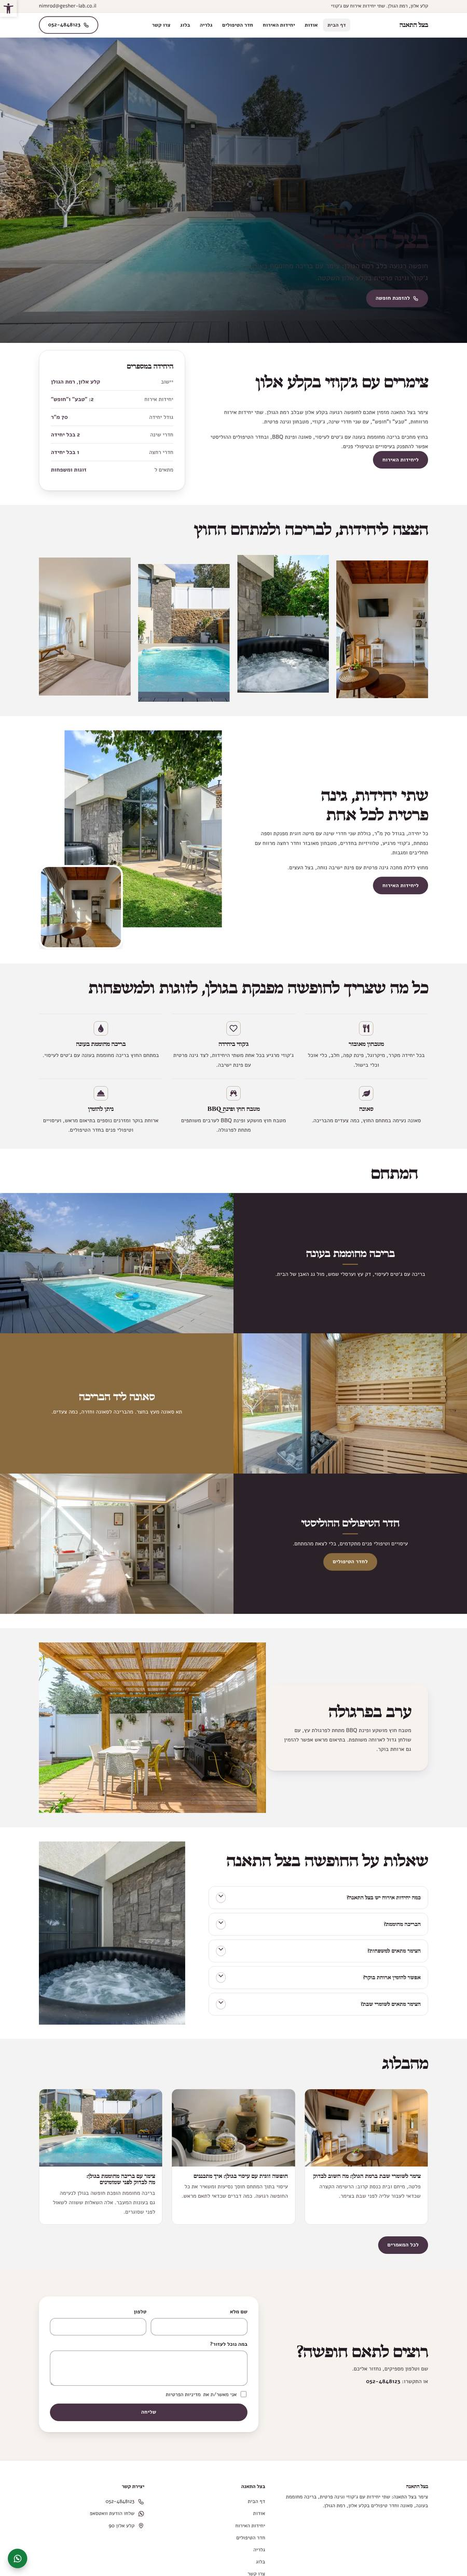
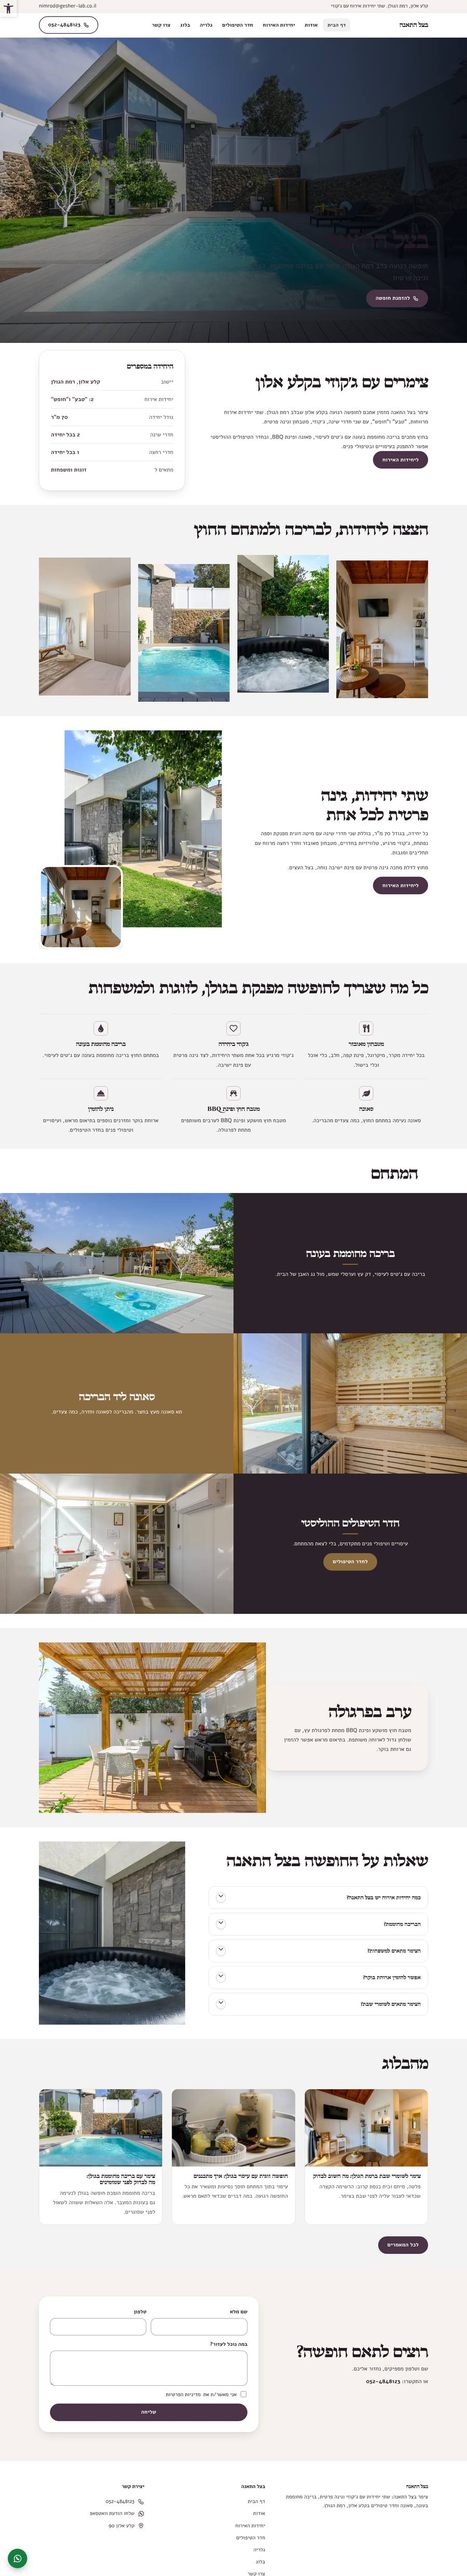
betzel-hateena: shorter hero lead, blog description, QA 0 / SEO 0 FAIL, previews
Claude-Session: https://claude.ai/code/session_01GFjDY7i3KpUg2KGwnZs5PT

Changed region(s): [[0.0622, 0.8076, 0.3422, 0.8386], [0.6533, 0.8076, 0.9022, 0.8386], [0.3733, 0.8076, 0.6222, 0.8386]]

diff --git a/sites/betzel-hateena/build_sitejson.py b/sites/betzel-hateena/build_sitejson.py
@@ -93,7 +93,7 @@ home = {
     },
     "sections": [
         {"type": "hero", "title": "בצל התאנה",
-         "lead": "חופשה רגועה בלב רמת הגולן: צימר עם בריכה מחוממת בעונה, ג׳קוזי וגינה פרטית בקלע אלון השקטה.",
+         "lead": "חופשה רגועה בלב רמת הגולן: צימר עם בריכה מחוממת, ג׳קוזי וגינה פרטית.",
          "cta": {"label": "להזמנת חופשה", "href": "tel"}, "cta2": {"label": "וואטסאפ", "href": "whatsapp"},
          "image": "pool-gable"},
         {"type": "facts", "title": "צימרים עם ג׳קוזי בקלע אלון",
@@ -253,7 +253,7 @@ contact = {
 blog = {"key": "בלוג", "type": "blog", "title": "בלוג",
         "excerpt": "רעיונות לחופשה ברמת הגולן מצימר בצל התאנה בקלע אלון.",
         "seo": {"title": "בצל התאנה | בלוג",
-                "description": "הבלוג של צימר בצל התאנה בקלע אלון: איך בוחרים צימר עם בריכה מחוממת בגולן, איך משלבים עיסוי בחופשה זוגית ומה חשוב לשומרי שבת בצימר. רעיונות לחופשה",
+                "description": "הבלוג של צימר בצל התאנה בקלע אלון: איך בוחרים צימר עם בריכה מחוממת בגולן, איך משלבים עיסוי בחופשה זוגית ומה חשוב לשומרי שבת בצימר. רעיונות לחופשה רגועה",
                 "keyword": "בלוג צימרים בגולן"}}
 
 POSTS = [

diff --git a/sites/betzel-hateena/SEO-QA.md b/sites/betzel-hateena/SEO-QA.md
@@ -1,0 +1,45 @@
+# SEO QA — בצל התאנה
+
+Checklist: Zap SEO sheet · site http://127.0.0.1:8546 · 39 rows: 33 pass, 0 fail, 5 manual
+
+| # | קטגוריה | בדיקה | סטטוס | הערות |
+|---|---|---|---|---|
+| 1 | עיצוב וטיפוגרפיה | מספר מקשר פותח פופ אפ | 👁 MANUAL | the engine has no tracking-number popup; check the example site14.clicksite.co.il and the Zap number in the brief |
+| 3 | עיצוב וטיפוגרפיה | שירותי החברה בדף הבית מפנים לעמוד השירות הנכון | — N/A | 0 cards checked |
+| 4 | עיצוב וטיפוגרפיה | יש עמודי הצהרת נגישות ומדיניות פרטיות | ✅ PASS | privacy ok; accessibility link /הצהרת-נגישות/ |
+| 5 | עיצוב וטיפוגרפיה | קטגוריית בלוג עם 3 פוסטים רלוונטיים (בסטלינקס) | ✅ PASS | blog page yes, 3 posts |
+| 6 | תמונות וביצועים | כל התמונות מתחת ל-100KB ובפורמט WebP | ✅ PASS | 54 images |
+| 7 | תמונות וביצועים | ALT לכל התמונות | ✅ PASS |  |
+| 8 | תמונות וביצועים | השאלות הנפוצות רלוונטיות לחברה | 👁 MANUAL | read every FAQ against NOTES.md facts (validate.py already blocks thin FAQs and invented ratings) |
+| 9 | תמונות וביצועים | הוכנסו תמונות הלקוח מטופס האפיון | 👁 MANUAL | 43 images, 0 marked AI; compare with the client's folder from the spec |
+| 11 | כפתורים ויצירת קשר | לינק וואטסאפ למספר הנכון + טאב חדש | ✅ PASS | 28 links |
+| 12 | כפתורים ויצירת קשר | כפתור וואטסאפ צף בכל האתר (טאב חדש) | ✅ PASS | desktop 1440 + mobile 390, every page |
+| 13 | כפתורים ויצירת קשר | כפתור טלפון תואם למספר באתר | ✅ PASS | tel = 052-4848123 |
+| 14 | כפתורים ויצירת קשר | כפתורי טלפון עם tel: לחיוג ישיר | ✅ PASS |  |
+| 15 | SEO טכני - URLs | סלאגים בעברית ולפי ה-H1 | ✅ PASS |  |
+| 16 | SEO טכני - URLs | הסרת /category/ מכתובות קטגוריות | ✅ PASS | category base removed |
+| 17 | SEO טכני - URLs | פרמלינק פוסטים /blog/%postname%/ | ✅ PASS | posts live under /בלוג/ |
+| 18 | SEO טכני - URLs | וי מדיניות פרטיות בטפסים + slug תקין | ✅ PASS | 13 forms |
+| 19 | שגיאות 301 ו-404 | בדיקת כל שגיאות ה-404 באתר | ✅ PASS | 17 internal links, all < 400 |
+| 20 | שגיאות 301 ו-404 | תיקון כל ה-404 (עמוד / 301) | ✅ PASS | redesign: map the old site's URLs to new ones (301) before launch |
+| 21 | שגיאות 301 ו-404 | קישורים פנימיים לא מפנים לכתובות ישנות | ✅ PASS |  |
+| 22 | SEO On-Page | סכמת FAQ בעמודי שירות ופוסטים | ✅ PASS |  |
+| 23 | SEO On-Page | Meta Title ייחודי ואופטימלי בכל עמוד | ✅ PASS | 13 unique titles |
+| 24 | SEO On-Page | Meta Description ייחודי (150-160 תווים) | ✅ PASS |  |
+| 25 | עמוד 404 | עיצוב מותאם לעמוד 404 | ✅ PASS | HTTP 404 |
+| 26 | עמוד 404 | קישור לעמוד הבית | ✅ PASS |  |
+| 27 | עמוד 404 | קישור לעמוד צור קשר | ✅ PASS |  |
+| 28 | עמוד 404 | שורת חיפוש בעמוד 404 | ✅ PASS |  |
+| 29 | עמוד 404 | קישורים פופולריים / קטגוריות | ✅ PASS |  |
+| 30 | תבניות | טמפלט תוצאות חיפוש עם רשימת פוסטים | ✅ PASS | HTTP 200 |
+| +1 | כללי | טלפון, מייל וכתובת תואמים לאפיון | 👁 MANUAL | site shows 052-4848123, nimrod@gesher-lab.co.il, קלע אלון 90; compare with the spec |
+| +2 | כללי | לוגו זאפ בפוטר + קישור לאתר זאפ | ✅ PASS |  |
+| +3 | כללי | H1 בדף הבית = שם הלקוח בלבד | ✅ PASS | בצל התאנה |
+| +7 | כללי | פורמט Title: "<לקוח> | <עמוד>" | ✅ PASS | all titles start with the client name |
+| +4 | כללי | עמוד פנימי שונה מפוסט | ✅ PASS | pages render through Elementor page layouts, posts through single.php |
+| +5 | כללי | מדיניות פרטיות + נגישות: טייטל ודיסקריפשן עם שם הלקוח | ✅ PASS | privacy title: בצל התאנה / מדיניות פרטיות; accessibility title: בצל התאנה / הצהרת נגישות |
+| +6 | כללי | נראות במובייל ובמחשב נייד 1280 | 👁 MANUAL | zs qa measures 1440 + 390 and the hero at 1280×620; look at 1280 once by eye |
+| +7 | כללי | שם הלקוח הנכון במדיניות הפרטיות ובהצהרת הנגישות | ✅ PASS | legal name: בצל התאנה |
+| +8 | כללי | מייל הטפסים ושם האתר מוגדרים נכון | ✅ PASS | leads → nimrod@gesher-lab.co.il; subject carries the site name; staging never mails the client |
+| +9 | כללי | סדר היררכי של כותרות, בלי H2 בטפסים | ✅ PASS |  |
+| +10 | כללי | כפתור נגישות (Ally) מוצג באתר | ✅ PASS | visible |

diff --git a/sites/betzel-hateena/QA-REPORT.md b/sites/betzel-hateena/QA-REPORT.md
@@ -2,39 +2,39 @@
 
 - Pages × viewports checked: **26** (13 URLs × 2)
 - Internal links tested: **56**, not 200: **0**
-- Errors: **27** · Warnings: **8**
+- Errors: **0** · Warnings: **8**
 
 - ✅ hero buttons above the fold at 1280×620
 - ✅ 404 page returns HTTP 404
 - ✅ mobile menu opens full-screen on top / Escape closes
 - ✅ lead form: thank-you shown, saved=1, mail=skipped on staging (correct)
-- ❌ hero buttons above the fold at 360×640 — 23px below
+- ✅ hero buttons above the fold at 360×640
 
 | viewport | page | errors | warnings | KB | details |
 |---|---|---|---|---|---|
-| desktop | /מדיניות-פרטיות/ | 1 | 0 | 829 | no favicon |
-| desktop | /יחידות-האירוח/ | 1 | 0 | 2343 | no favicon |
-| desktop | /חדר-הטיפולים/ | 1 | 0 | 1491 | no favicon |
-| desktop | /גלריה/ | 1 | 1 | 3524 | no favicon; <title> length 17 |
-| desktop | /צרו-קשר/ | 1 | 1 | 988 | no favicon; <title> length 19 |
-| desktop | /בלוג/ | 1 | 1 | 1196 | no favicon; <title> length 16 |
-| desktop | /הצהרת-נגישות/ | 1 | 0 | 814 | no favicon |
-| desktop | / | 1 | 0 | 2253 | no favicon |
-| desktop | /אודות/ | 1 | 1 | 1631 | no favicon; <title> length 17 |
-| desktop | /בלוג/צימר-לשומרי-שבת-ברמת-הגולן/ | 1 | 0 | 1075 | no favicon |
-| desktop | /בלוג/חופשה-זוגית-עם-עיסוי-בגולן/ | 1 | 0 | 1042 | no favicon |
-| desktop | /בלוג/צימר-עם-בריכה-מחוממת-בגולן/ | 1 | 0 | 1051 | no favicon |
-| desktop | /בלוג/חופשה-בגולן/ | 1 | 0 | 1469 | no favicon |
-| mobile | /מדיניות-פרטיות/ | 1 | 0 | 829 | no favicon |
-| mobile | /יחידות-האירוח/ | 1 | 0 | 2007 | no favicon |
-| mobile | /חדר-הטיפולים/ | 1 | 0 | 1303 | no favicon |
-| mobile | /גלריה/ | 1 | 1 | 2870 | no favicon; <title> length 17 |
-| mobile | /צרו-קשר/ | 1 | 1 | 1020 | no favicon; <title> length 19 |
-| mobile | /בלוג/ | 1 | 1 | 1114 | no favicon; <title> length 16 |
-| mobile | /הצהרת-נגישות/ | 1 | 0 | 814 | no favicon |
-| mobile | / | 1 | 0 | 1871 | no favicon |
-| mobile | /אודות/ | 1 | 1 | 1465 | no favicon; <title> length 17 |
-| mobile | /בלוג/צימר-לשומרי-שבת-ברמת-הגולן/ | 1 | 0 | 1010 | no favicon |
-| mobile | /בלוג/חופשה-זוגית-עם-עיסוי-בגולן/ | 1 | 0 | 998 | no favicon |
-| mobile | /בלוג/צימר-עם-בריכה-מחוממת-בגולן/ | 1 | 0 | 1049 | no favicon |
-| mobile | /בלוג/חופשה-בגולן/ | 1 | 0 | 1117 | no favicon |
+| desktop | /מדיניות-פרטיות/ | 0 | 0 | 830 |  |
+| desktop | /יחידות-האירוח/ | 0 | 0 | 1858 |  |
+| desktop | /חדר-הטיפולים/ | 0 | 0 | 1256 |  |
+| desktop | /גלריה/ | 0 | 1 | 2590 | <title> length 17 |
+| desktop | /צרו-קשר/ | 0 | 1 | 989 | <title> length 19 |
+| desktop | /בלוג/ | 0 | 1 | 1052 | <title> length 16 |
+| desktop | /הצהרת-נגישות/ | 0 | 0 | 814 |  |
+| desktop | / | 0 | 0 | 1793 |  |
+| desktop | /אודות/ | 0 | 1 | 1398 | <title> length 17 |
+| desktop | /בלוג/צימר-לשומרי-שבת-ברמת-הגולן/ | 0 | 0 | 1018 |  |
+| desktop | /בלוג/חופשה-זוגית-עם-עיסוי-בגולן/ | 0 | 0 | 1004 |  |
+| desktop | /בלוג/צימר-עם-בריכה-מחוממת-בגולן/ | 0 | 0 | 1052 |  |
+| desktop | /בלוג/חופשה-בגולן/ | 0 | 0 | 1054 |  |
+| mobile | /מדיניות-פרטיות/ | 0 | 0 | 830 |  |
+| mobile | /יחידות-האירוח/ | 0 | 0 | 1578 |  |
+| mobile | /חדר-הטיפולים/ | 0 | 0 | 1158 |  |
+| mobile | /גלריה/ | 0 | 1 | 2021 | <title> length 17 |
+| mobile | /צרו-קשר/ | 0 | 1 | 939 | <title> length 19 |
+| mobile | /בלוג/ | 0 | 1 | 1052 | <title> length 16 |
+| mobile | /הצהרת-נגישות/ | 0 | 0 | 814 |  |
+| mobile | / | 0 | 0 | 1553 |  |
+| mobile | /אודות/ | 0 | 1 | 1238 | <title> length 17 |
+| mobile | /בלוג/צימר-לשומרי-שבת-ברמת-הגולן/ | 0 | 0 | 990 |  |
+| mobile | /בלוג/חופשה-זוגית-עם-עיסוי-בגולן/ | 0 | 0 | 985 |  |
+| mobile | /בלוג/צימר-עם-בריכה-מחוממת-בגולן/ | 0 | 0 | 1014 |  |
+| mobile | /בלוג/חופשה-בגולן/ | 0 | 0 | 1054 |  |
